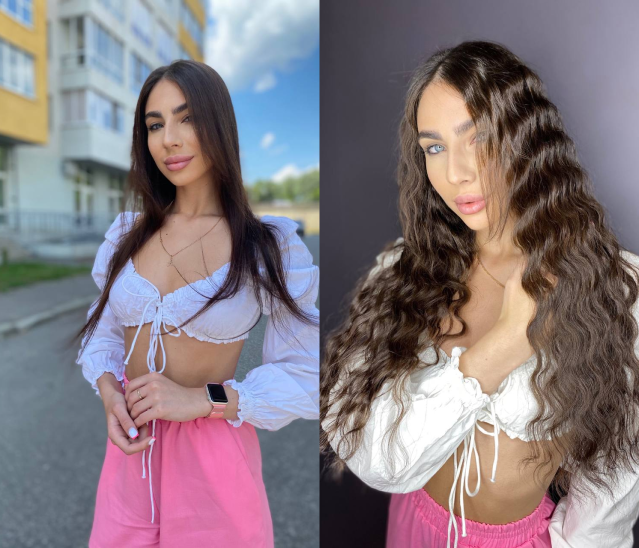
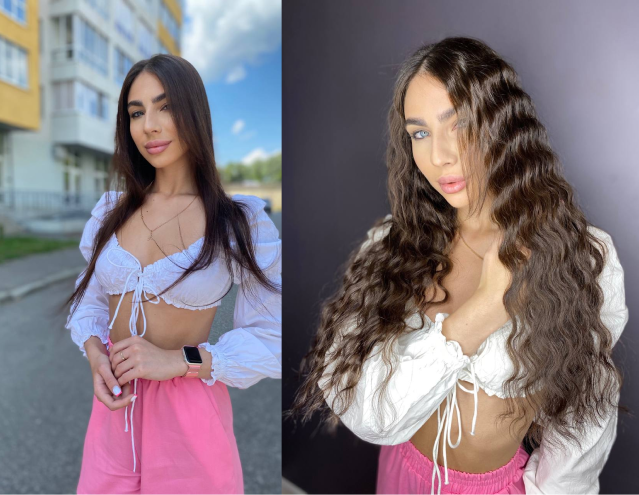
rew

diff --git a/css/style.min.css b/css/style.min.css
@@ -1,2 +1,2 @@
-*{margin:0;padding:0;-webkit-box-sizing:border-box;box-sizing:border-box}html{font-size:16px}body{font-family:'Montserrat', 'Arial', sans-serif}.container{width:90%;max-width:1160px;position:relative;margin:0 auto}.title{font-family:'Prata', serif;font-size:2rem;font-weight:400;color:#332F29}.btn{display:block;padding:17px 47px;background:#C29C74;color:#332F29;border:none;font-weight:700;font-size:1rem;text-transform:uppercase;border-radius:5px;width:-webkit-fit-content;width:-moz-fit-content;width:fit-content;position:relative;z-index:2}.btn:hover{cursor:pointer;background:#332F29;color:#C29C74;outline:1px solid #C29C74}.btn:active{-webkit-box-shadow:inset 2px 2px 5px #000;box-shadow:inset 2px 2px 5px #000}.menu{display:-webkit-box;display:-ms-flexbox;display:flex;-webkit-box-pack:justify;-ms-flex-pack:justify;justify-content:space-between;height:138px;margin-top:19px;position:relative;z-index:4}.menu__contacts{display:-webkit-box;display:-ms-flexbox;display:flex;-webkit-box-pack:justify;-ms-flex-pack:justify;justify-content:space-between;margin-top:20px}.menu__phone{margin-right:15px;color:#fff;font-weight:500;text-decoration:none;font-size:1rem}.menu__phone:hover{opacity:.8;cursor:pointer}.menu__cons{color:#fff;font-weight:500;text-decoration:none;font-size:1rem}.menu__cons:hover{opacity:.7;cursor:pointer}.logo{display:block;width:165px;margin-top:-4px}.logo img{width:100%}.promo{background:-webkit-gradient(linear, left top, right top, from(#312D27), color-stop(164.47%, #34302B));background:linear-gradient(90deg, #312D27 0%, #34302B 164.47%);height:100vh;padding-top:5px;position:relative;overflow:hidden}.promo__img{position:absolute;top:0;right:0;height:100vh;width:40%;background:url(../img/promo.jpg) no-repeat right top;background-size:cover}.promo__img_mob{display:none;position:absolute;right:0;top:0;opacity:.1;height:100vh}.promo__img_mob img{height:100%}.promo__title{font-family:'Prata';font-weight:400;font-size:2.5rem;margin-top:60px;color:#C29C74}.promo__subtitle{font-weight:400;font-size:1.4rem;color:#FFFFFF;list-style-type:none;padding-left:43px;margin-top:15px;margin-bottom:70px}.promo__subtitle li{position:relative;margin-bottom:10px}.promo__subtitle li::before{content:'';display:block;width:35px;height:2px;background:#fff;position:absolute;top:50%;left:-43px}.wins{background:-webkit-gradient(linear, left top, right top, color-stop(60%, #F3EBE3), color-stop(40%, #fff));background:linear-gradient(to right, #F3EBE3 60%, #fff 40%);position:relative;z-index:7}.wins__wrapper{padding:40px 140px;height:160px;width:90%;margin:0 auto;background:#C29C74;display:-webkit-box;display:-ms-flexbox;display:flex;-webkit-box-pack:justify;-ms-flex-pack:justify;justify-content:space-between;max-width:976px}.wins__item{font-weight:500;font-size:1.2rem;line-height:120%;text-align:center;width:25%;color:#FFFFFF}.swiper{margin-top:50px;padding-top:50px;padding-bottom:80px}.swiper-slide-next .rew__wrap{-webkit-transform:scale(1.2);transform:scale(1.2);-webkit-transition:all .3s;transition:all .3s}.swiper-pagination-bullet-active{background:#332F29}.swiper-button-next,.swiper-button-prev{color:#fff;background:#C29C74;padding:5px;border-radius:50%;width:40px;height:40px;border:none;bottom:0;margin:auto}.swiper-button-next::after,.swiper-button-prev::after{font-size:16px;font-weight:700}.swiper__nav{position:absolute;width:116px;height:58px;left:50%;bottom:7px;-webkit-transform:translateX(-38px);transform:translateX(-38px)}.rew{background:-webkit-gradient(linear, left top, right top, color-stop(60%, #F3EBE3), color-stop(40%, #fff)),-webkit-gradient(linear, right top, left top, color-stop(60%, #332F29), color-stop(40%, #fff));background:linear-gradient(to right, #F3EBE3 60%, #fff 40%),linear-gradient(to left, #332F29 60%, #fff 40%);padding-bottom:60px;padding-top:100px}.rew__wrap{margin:0 0 0 25px}.rew__photo{padding-top:15px;position:relative;width:300px;height:300px;margin:0 auto}.rew__photo img{width:100%;height:100%;-o-object-fit:cover;object-fit:cover;-o-object-position:top;object-position:top;display:block;margin:0 auto}.rew__photo video{width:100%;height:100%}.about{background:-webkit-gradient(linear, left top, right top, color-stop(60%, #F3EBE3), color-stop(40%, #fff));background:linear-gradient(to right, #F3EBE3 60%, #fff 40%);padding-top:100px;padding-bottom:100px;position:relative}.about::after{content:'';background:#332F29;width:50%;height:46%;position:absolute;right:0;bottom:0}.about__wrapper{display:-webkit-box;display:-ms-flexbox;display:flex;-webkit-box-pack:justify;-ms-flex-pack:justify;justify-content:space-between;margin-top:40px}.about__text{font-weight:400;font-size:1.1rem;line-height:160%;color:#332F29;width:40%}.about__photo{width:40%;position:relative;z-index:2}.about__photo img{width:100%}.tabs__content{display:none}.tabs__content.active{display:block}.tabs{margin-top:60px;display:-webkit-box;display:-ms-flexbox;display:flex;-webkit-box-pack:justify;-ms-flex-pack:justify;justify-content:space-between}.tabs__caption{list-style-type:none;margin-right:25px}.tabs__caption li{padding-left:10px;cursor:pointer;position:relative;margin-top:20px;display:block;height:25px;width:-webkit-fit-content;width:-moz-fit-content;width:fit-content;font-size:1.2rem}.tabs__caption li.active{border-bottom:2px solid #332F29}.tabs__caption li.active::before{content:'';width:5px;height:5px;background:#332F29;position:absolute;top:10px;left:0}.tabs__caption li:hover{border-bottom:2px solid #332F29}.teh{background:-webkit-gradient(linear, right top, left top, color-stop(50%, #332F29), color-stop(50%, #fff));background:linear-gradient(to left, #332F29 50%, #fff 50%);padding:100px 0 100px}.teh__wrapper{display:-webkit-box;display:-ms-flexbox;display:flex;-webkit-box-pack:justify;-ms-flex-pack:justify;justify-content:space-between}.teh__text{width:294px;font-weight:400;font-size:20px;line-height:160%;margin-left:30px;-ms-flex-item-align:end;-ms-grid-row-align:end;align-self:end;color:#C29C74;margin-bottom:30px}.teh__photo{width:500px}.teh__photo img{width:100%}.result{padding:100px 0}.result__wrapper{display:-ms-grid;display:grid;-ms-grid-columns:1fr 1fr 1fr;grid-template-columns:1fr 1fr 1fr;-ms-grid-rows:150px auto 150px;grid-template-rows:150px auto 150px;-webkit-column-gap:30px;column-gap:30px;justify-items:center}.result .title{-ms-grid-column:2;-ms-grid-column-span:1;grid-column:2/3;-ms-grid-row:1;-ms-grid-row-span:1;grid-row:1/2;text-align:center}.result .result1{-ms-grid-column:1;-ms-grid-column-span:1;grid-column:1/2;-ms-grid-row:1;-ms-grid-row-span:2;grid-row:1/3}.result .result2{-ms-grid-column:2;-ms-grid-column-span:1;grid-column:2/3;-ms-grid-row:2;-ms-grid-row-span:2;grid-row:2/4}.result .result3{-ms-grid-column:3;-ms-grid-column-span:1;grid-column:3/4;-ms-grid-row:1;-ms-grid-row-span:2;grid-row:1/3}.result__photo{width:100%}.result__photo img{width:100%}.result__item{width:100%;max-width:320px;-ms-flex-item-align:center;-ms-grid-row-align:center;align-self:center;background:#332F29}.result__title{font-weight:500;font-size:1.5rem;padding:10px 0 0 0;color:#C29C74;text-align:center}.result__text{padding:0 30px 30px;text-align:center;color:#C29C74;font-size:1rem;margin-top:10px}.sert{padding:100px 0}.sert__wrapper{display:-webkit-box;display:-ms-flexbox;display:flex;-webkit-box-pack:center;-ms-flex-pack:center;justify-content:center;-ms-flex-wrap:wrap;flex-wrap:wrap;width:90%;margin:40px auto 0}.sert__item{width:275px;height:333px;background:#FFFFFF;border:1px solid #000000;-webkit-box-shadow:3px 4px 4px rgba(0,0,0,0.25);box-shadow:3px 4px 4px rgba(0,0,0,0.25);margin:20px}.price{position:relative;padding:50px 0 100px}.price::before{content:'';position:absolute;width:45%;height:350px;background:#F3EBE3;z-index:-1;top:0;left:0}.price__block{width:65%;background:#332F29;margin-top:30px;margin-left:auto;padding:60px 20px;color:#F3EBE3}.price__row{display:-webkit-box;display:-ms-flexbox;display:flex;-ms-flex-pack:distribute;justify-content:space-around;-webkit-box-align:center;-ms-flex-align:center;align-items:center;border-bottom:1px solid #F3EBE3;height:35px}.price__title{font-weight:500;font-size:1.5rem}.price__subtitle{font-weight:500;font-size:1.3rem}.price__text{font-size:1rem;font-weight:300}.price__photo{position:absolute;bottom:0;left:0;z-index:-1}.complex{padding:100px 0}.complex__wrapper{display:-webkit-box;display:-ms-flexbox;display:flex;-ms-flex-pack:distribute;justify-content:space-around;margin-top:40px}.complex__item{width:30%;max-width:300px;height:400px;padding:40px 70px;border-radius:5px}.complex .complex1{background:url(../img/complex_photo1.png) no-repeat center;background-size:cover}.complex .complex2{background:url(../img/complex__photo2.png) no-repeat center;background-size:cover}.complex .complex3{background:url(../img/complex__photo3.png) no-repeat center;background-size:cover}.complex__title{font-size:1.2rem;color:#fff;font-weight:500;text-align:center}.complex__serv{margin-top:30px}.complex__serv li{color:#fff;font-weight:300;font-size:1rem;margin-bottom:20px}.complex .btn{margin:70px auto 0;padding:14px 25px;font-size:.8rem}.form{background:#F3EBE3;padding:100px 0;text-align:center}.form__text{margin-top:30px;font-weight:400;font-size:20px;line-height:24px;text-align:center;color:#332F29}.form .btn{margin:30px auto}footer{background:#332F29;padding:50px 0}.footer__wrapper{display:-webkit-box;display:-ms-flexbox;display:flex;-webkit-box-pack:justify;-ms-flex-pack:justify;justify-content:space-between}.footer__item:nth-child(2){width:50%;max-width:600px;margin-left:20px}.footer__contacts{margin-top:40px}.footer__contacts a{display:-webkit-box;display:-ms-flexbox;display:flex;-webkit-box-align:center;-ms-flex-align:center;align-items:center;color:#fff;text-decoration:none;margin-top:20px}.footer__contacts a img{width:12px;margin-right:5px}.footer__contacts a:hover{opacity:.7}.copyright{color:#fff;border-top:1px solid #fff;margin-top:20px;padding-top:20px;font-size:12px}.overlay{position:fixed;top:0;left:0;height:100%;width:100%;background:rgba(255,255,255,0.85);z-index:5;display:none}.modal{z-index:6;position:fixed;top:50%;left:50%;-webkit-transform:translate(-50%, -50%);transform:translate(-50%, -50%);background:#fff;padding:40px 40px;-webkit-box-shadow:#332F29 5px 5px 15px;box-shadow:#332F29 5px 5px 15px;display:none}.modal__title{text-align:center;font-size:18px}.modal__close{position:absolute;right:25px;top:15px;font-size:30px;cursor:pointer}.modal__form{display:-webkit-box;display:-ms-flexbox;display:flex;-webkit-box-orient:vertical;-webkit-box-direction:normal;-ms-flex-direction:column;flex-direction:column;margin:15px auto 20px;width:80%}.modal__form input{margin-bottom:15px;height:30px;border:1px solid #000;border-radius:5px;padding-left:5px}.modal__form textarea{margin-bottom:30px;border:1px solid #000;border-radius:5px;padding-left:5px;padding-top:5px}.modal__form .btn{border:none;margin:0 auto}.thanks{z-index:6;position:fixed;top:50%;left:50%;-webkit-transform:translate(-50%, -50%);transform:translate(-50%, -50%);background:#fff;padding:40px 40px;-webkit-box-shadow:#332F29 5px 5px 15px;box-shadow:#332F29 5px 5px 15px;display:none}@media (max-width: 1116px){.rew__photo{width:270px;height:270px}.teh__photo{width:400px}}@media (max-width: 1023px){.promo__img{display:none}.promo__img_mob{display:block}.wins__wrapper{padding:30px 35px;height:125px}.rew__photo{width:250px;height:250px}.about__text{font-size:.8rem}.teh__photo{width:300px}.teh__text{font-size:14px;width:180px}.result__title{font-size:1rem}.result__text{font-size:.8rem;padding:0 15px 15px}.complex__wrapper{-ms-flex-wrap:wrap;flex-wrap:wrap}.complex__item{width:auto;margin-top:20px;padding:35px 40px}}@media (max-width: 767px){.title{font-size:1.2rem}.container{width:85%}.logo{width:120px}.wins__item{font-size:.8rem}.wins__wrapper{padding:25px 19px;height:100px}.rew{padding-top:60px}.rew .swiper{margin-top:0}.about{padding-top:50px}.about__wrapper{-webkit-box-orient:vertical;-webkit-box-direction:normal;-ms-flex-direction:column;flex-direction:column;-webkit-box-align:center;-ms-flex-align:center;align-items:center}.about__photo{-webkit-box-ordinal-group:2;-ms-flex-order:1;order:1;width:300px}.about__text{-webkit-box-ordinal-group:3;-ms-flex-order:2;order:2;width:100%;margin-top:15px;text-align:center}.about::after{display:none}.teh{background:-webkit-gradient(linear, right top, left top, color-stop(40%, #332F29), color-stop(40%, #fff));background:linear-gradient(to left, #332F29 40%, #fff 40%);padding:50px 0 0}.teh__wrapper{display:block}.teh__photo{width:160px}.teh__text{margin:0;line-height:170%;background:#332F29;font-size:12px;padding:10px 15px;width:320px;height:140px;margin-left:-150px}.tabs{margin-top:30px;position:relative}.tabs__caption li{font-size:1rem;height:20px;margin-top:10px}.tabs__caption li.active:before{top:5px}.result{padding:50px 0}.result__photo{height:250px}.result__photo img{height:100%;-o-object-fit:cover;object-fit:cover}.sert{padding:50px 0}.price{padding:50px 0}.price__photo{display:none}.price__block{width:90%;margin:30px auto 0}.complex{padding:50px 0}.complex__wrapper{-webkit-box-align:center;-ms-flex-align:center;align-items:center}.complex__item{width:90%;height:300px}.complex .btn{margin-top:30px}.complex__serv li{margin-bottom:10px}.form{padding:50px 0}.form__text{font-size:16px}.footer__wrapper{-webkit-box-orient:vertical;-webkit-box-direction:normal;-ms-flex-direction:column;flex-direction:column}.footer__item:nth-child(2){width:100%;max-width:400px;margin-top:30px;margin-left:0}}@media (max-width: 499px){html{font-size:15px !important}.menu__phone,.menu__cons{font-size:.7rem}.wins__wrapper{width:100%}.result__wrapper{-ms-grid-columns:1fr;grid-template-columns:1fr;-ms-grid-rows:auto;grid-template-rows:auto;row-gap:20px}.result .title{-ms-grid-column:1;-ms-grid-column-span:1;grid-column:1/2;-ms-grid-row:1;-ms-grid-row-span:1;grid-row:1/2}.result .result1{-ms-grid-column:1;-ms-grid-column-span:1;grid-column:1/2;-ms-grid-row:2;-ms-grid-row-span:1;grid-row:2/3}.result .result2{-ms-grid-column:1;-ms-grid-column-span:1;grid-column:1/2;-ms-grid-row:3;-ms-grid-row-span:1;grid-row:3/4}.result .result3{-ms-grid-column:1;-ms-grid-column-span:1;grid-column:1/2;-ms-grid-row:4;-ms-grid-row-span:1;grid-row:4/5}.modal{width:85%;padding:35px 20px}}
+*{margin:0;padding:0;-webkit-box-sizing:border-box;box-sizing:border-box}html{font-size:16px}body{font-family:'Montserrat', 'Arial', sans-serif}.container{width:90%;max-width:1160px;position:relative;margin:0 auto}.title{font-family:'Prata', serif;font-size:2rem;font-weight:400;color:#332F29}.btn{display:block;padding:17px 47px;background:#C29C74;color:#332F29;border:none;font-weight:700;font-size:1rem;text-transform:uppercase;border-radius:5px;width:-webkit-fit-content;width:-moz-fit-content;width:fit-content;position:relative;z-index:2}.btn:hover{cursor:pointer;background:#332F29;color:#C29C74;outline:1px solid #C29C74}.btn:active{-webkit-box-shadow:inset 2px 2px 5px #000;box-shadow:inset 2px 2px 5px #000}.menu{display:-webkit-box;display:-ms-flexbox;display:flex;-webkit-box-pack:justify;-ms-flex-pack:justify;justify-content:space-between;height:138px;margin-top:19px;position:relative;z-index:4}.menu__contacts{display:-webkit-box;display:-ms-flexbox;display:flex;-webkit-box-pack:justify;-ms-flex-pack:justify;justify-content:space-between;margin-top:20px}.menu__phone{margin-right:15px;color:#fff;font-weight:500;text-decoration:none;font-size:1rem}.menu__phone:hover{opacity:.8;cursor:pointer}.menu__cons{color:#fff;font-weight:500;text-decoration:none;font-size:1rem}.menu__cons:hover{opacity:.7;cursor:pointer}.logo{display:block;width:165px;margin-top:-4px}.logo img{width:100%}.promo{background:-webkit-gradient(linear, left top, right top, from(#312D27), color-stop(164.47%, #34302B));background:linear-gradient(90deg, #312D27 0%, #34302B 164.47%);height:100vh;padding-top:5px;position:relative;overflow:hidden}.promo__img{position:absolute;top:0;right:0;height:100vh;width:40%;background:url(../img/promo.jpg) no-repeat right top;background-size:cover}.promo__img_mob{display:none;position:absolute;right:0;top:0;opacity:.1;height:100vh}.promo__img_mob img{height:100%}.promo__title{font-family:'Prata';font-weight:400;font-size:2.5rem;margin-top:60px;color:#C29C74}.promo__subtitle{font-weight:400;font-size:1.4rem;color:#FFFFFF;list-style-type:none;padding-left:43px;margin-top:15px;margin-bottom:70px}.promo__subtitle li{position:relative;margin-bottom:10px}.promo__subtitle li::before{content:'';display:block;width:35px;height:2px;background:#fff;position:absolute;top:50%;left:-43px}.wins{background:-webkit-gradient(linear, left top, right top, color-stop(60%, #F3EBE3), color-stop(40%, #fff));background:linear-gradient(to right, #F3EBE3 60%, #fff 40%);position:relative;z-index:7}.wins__wrapper{padding:40px 140px;height:160px;width:90%;margin:0 auto;background:#C29C74;display:-webkit-box;display:-ms-flexbox;display:flex;-webkit-box-pack:justify;-ms-flex-pack:justify;justify-content:space-between;max-width:976px}.wins__item{font-weight:500;font-size:1.2rem;line-height:120%;text-align:center;width:25%;color:#FFFFFF}.swiper{margin-top:50px;padding-top:50px;padding-bottom:80px}.swiper-slide-next .rew__wrap{-webkit-transform:scale(1.2);transform:scale(1.2);-webkit-transition:all .3s;transition:all .3s}.swiper-pagination-bullet-active{background:#332F29}.swiper-button-next,.swiper-button-prev{color:#fff;background:#C29C74;padding:5px;border-radius:50%;width:40px;height:40px;border:none;bottom:0;margin:auto}.swiper-button-next::after,.swiper-button-prev::after{font-size:16px;font-weight:700}.swiper__nav{position:absolute;width:116px;height:58px;left:50%;bottom:7px;-webkit-transform:translateX(-38px);transform:translateX(-38px)}.rew{background:-webkit-gradient(linear, left top, right top, color-stop(60%, #F3EBE3), color-stop(40%, #fff)),-webkit-gradient(linear, right top, left top, color-stop(60%, #332F29), color-stop(40%, #fff));background:linear-gradient(to right, #F3EBE3 60%, #fff 40%),linear-gradient(to left, #332F29 60%, #fff 40%);padding-bottom:60px;padding-top:100px}.rew__wrap{margin:0 0 0 25px}.rew__photo{padding-top:15px;position:relative;width:300px;height:300px;margin:0 auto}.rew__photo img{width:100%;height:100%;-o-object-fit:contain;object-fit:contain;-o-object-position:top;object-position:top;display:block;margin:0 auto}.rew__photo video{width:100%;height:100%}.about{background:-webkit-gradient(linear, left top, right top, color-stop(60%, #F3EBE3), color-stop(40%, #fff));background:linear-gradient(to right, #F3EBE3 60%, #fff 40%);padding-top:100px;padding-bottom:100px;position:relative}.about::after{content:'';background:#332F29;width:50%;height:46%;position:absolute;right:0;bottom:0}.about__wrapper{display:-webkit-box;display:-ms-flexbox;display:flex;-webkit-box-pack:justify;-ms-flex-pack:justify;justify-content:space-between;margin-top:40px}.about__text{font-weight:400;font-size:1.1rem;line-height:160%;color:#332F29;width:40%}.about__photo{width:40%;position:relative;z-index:2}.about__photo img{width:100%}.tabs__content{display:none}.tabs__content.active{display:block}.tabs{margin-top:60px;display:-webkit-box;display:-ms-flexbox;display:flex;-webkit-box-pack:justify;-ms-flex-pack:justify;justify-content:space-between}.tabs__caption{list-style-type:none;margin-right:25px}.tabs__caption li{padding-left:10px;cursor:pointer;position:relative;margin-top:20px;display:block;height:25px;width:-webkit-fit-content;width:-moz-fit-content;width:fit-content;font-size:1.2rem}.tabs__caption li.active{border-bottom:2px solid #332F29}.tabs__caption li.active::before{content:'';width:5px;height:5px;background:#332F29;position:absolute;top:10px;left:0}.tabs__caption li:hover{border-bottom:2px solid #332F29}.teh{background:-webkit-gradient(linear, right top, left top, color-stop(50%, #332F29), color-stop(50%, #fff));background:linear-gradient(to left, #332F29 50%, #fff 50%);padding:100px 0 100px}.teh__wrapper{display:-webkit-box;display:-ms-flexbox;display:flex;-webkit-box-pack:justify;-ms-flex-pack:justify;justify-content:space-between}.teh__text{width:294px;font-weight:400;font-size:20px;line-height:160%;margin-left:30px;-ms-flex-item-align:end;-ms-grid-row-align:end;align-self:end;color:#C29C74;margin-bottom:30px}.teh__photo{width:500px}.teh__photo img{width:100%}.result{padding:100px 0}.result__wrapper{display:-ms-grid;display:grid;-ms-grid-columns:1fr 1fr 1fr;grid-template-columns:1fr 1fr 1fr;-ms-grid-rows:150px auto 150px;grid-template-rows:150px auto 150px;-webkit-column-gap:30px;column-gap:30px;justify-items:center}.result .title{-ms-grid-column:2;-ms-grid-column-span:1;grid-column:2/3;-ms-grid-row:1;-ms-grid-row-span:1;grid-row:1/2;text-align:center}.result .result1{-ms-grid-column:1;-ms-grid-column-span:1;grid-column:1/2;-ms-grid-row:1;-ms-grid-row-span:2;grid-row:1/3}.result .result2{-ms-grid-column:2;-ms-grid-column-span:1;grid-column:2/3;-ms-grid-row:2;-ms-grid-row-span:2;grid-row:2/4}.result .result3{-ms-grid-column:3;-ms-grid-column-span:1;grid-column:3/4;-ms-grid-row:1;-ms-grid-row-span:2;grid-row:1/3}.result__photo{width:100%}.result__photo img{width:100%}.result__item{width:100%;max-width:320px;-ms-flex-item-align:center;-ms-grid-row-align:center;align-self:center;background:#332F29}.result__title{font-weight:500;font-size:1.5rem;padding:10px 0 0 0;color:#C29C74;text-align:center}.result__text{padding:0 30px 30px;text-align:center;color:#C29C74;font-size:1rem;margin-top:10px}.sert{padding:100px 0}.sert__wrapper{display:-webkit-box;display:-ms-flexbox;display:flex;-webkit-box-pack:center;-ms-flex-pack:center;justify-content:center;-ms-flex-wrap:wrap;flex-wrap:wrap;width:90%;margin:40px auto 0}.sert__item{width:275px;height:333px;background:#FFFFFF;border:1px solid #000000;-webkit-box-shadow:3px 4px 4px rgba(0,0,0,0.25);box-shadow:3px 4px 4px rgba(0,0,0,0.25);margin:20px}.price{position:relative;padding:50px 0 100px}.price::before{content:'';position:absolute;width:45%;height:350px;background:#F3EBE3;z-index:-1;top:0;left:0}.price__block{width:65%;background:#332F29;margin-top:30px;margin-left:auto;padding:60px 20px;color:#F3EBE3}.price__row{display:-webkit-box;display:-ms-flexbox;display:flex;-ms-flex-pack:distribute;justify-content:space-around;-webkit-box-align:center;-ms-flex-align:center;align-items:center;border-bottom:1px solid #F3EBE3;height:35px}.price__title{font-weight:500;font-size:1.5rem}.price__subtitle{font-weight:500;font-size:1.3rem}.price__text{font-size:1rem;font-weight:300}.price__photo{position:absolute;bottom:0;left:0;z-index:-1}.complex{padding:100px 0}.complex__wrapper{display:-webkit-box;display:-ms-flexbox;display:flex;-ms-flex-pack:distribute;justify-content:space-around;margin-top:40px}.complex__item{width:30%;max-width:300px;height:400px;padding:40px 70px;border-radius:5px}.complex .complex1{background:url(../img/complex_photo1.png) no-repeat center;background-size:cover}.complex .complex2{background:url(../img/complex__photo2.png) no-repeat center;background-size:cover}.complex .complex3{background:url(../img/complex__photo3.png) no-repeat center;background-size:cover}.complex__title{font-size:1.2rem;color:#fff;font-weight:500;text-align:center}.complex__serv{margin-top:30px}.complex__serv li{color:#fff;font-weight:300;font-size:1rem;margin-bottom:20px}.complex .btn{margin:70px auto 0;padding:14px 25px;font-size:.8rem}.form{background:#F3EBE3;padding:100px 0;text-align:center}.form__text{margin-top:30px;font-weight:400;font-size:20px;line-height:24px;text-align:center;color:#332F29}.form .btn{margin:30px auto}footer{background:#332F29;padding:50px 0}.footer__wrapper{display:-webkit-box;display:-ms-flexbox;display:flex;-webkit-box-pack:justify;-ms-flex-pack:justify;justify-content:space-between}.footer__item:nth-child(2){width:50%;max-width:600px;margin-left:20px}.footer__contacts{margin-top:40px}.footer__contacts a{display:-webkit-box;display:-ms-flexbox;display:flex;-webkit-box-align:center;-ms-flex-align:center;align-items:center;color:#fff;text-decoration:none;margin-top:20px}.footer__contacts a img{width:12px;margin-right:5px}.footer__contacts a:hover{opacity:.7}.copyright{color:#fff;border-top:1px solid #fff;margin-top:20px;padding-top:20px;font-size:12px}.overlay{position:fixed;top:0;left:0;height:100%;width:100%;background:rgba(255,255,255,0.85);z-index:5;display:none}.modal{z-index:6;position:fixed;top:50%;left:50%;-webkit-transform:translate(-50%, -50%);transform:translate(-50%, -50%);background:#fff;padding:40px 40px;-webkit-box-shadow:#332F29 5px 5px 15px;box-shadow:#332F29 5px 5px 15px;display:none}.modal__title{text-align:center;font-size:18px}.modal__close{position:absolute;right:25px;top:15px;font-size:30px;cursor:pointer}.modal__form{display:-webkit-box;display:-ms-flexbox;display:flex;-webkit-box-orient:vertical;-webkit-box-direction:normal;-ms-flex-direction:column;flex-direction:column;margin:15px auto 20px;width:80%}.modal__form input{margin-bottom:15px;height:30px;border:1px solid #000;border-radius:5px;padding-left:5px}.modal__form textarea{margin-bottom:30px;border:1px solid #000;border-radius:5px;padding-left:5px;padding-top:5px}.modal__form .btn{border:none;margin:0 auto}.thanks{z-index:6;position:fixed;top:50%;left:50%;-webkit-transform:translate(-50%, -50%);transform:translate(-50%, -50%);background:#fff;padding:40px 40px;-webkit-box-shadow:#332F29 5px 5px 15px;box-shadow:#332F29 5px 5px 15px;display:none}@media (max-width: 1116px){.rew__photo{width:270px;height:270px}.teh__photo{width:400px}}@media (max-width: 1023px){.promo__img{display:none}.promo__img_mob{display:block}.wins__wrapper{padding:30px 35px;height:125px}.rew__photo{width:250px;height:250px}.about__text{font-size:.8rem}.teh__photo{width:300px}.teh__text{font-size:14px;width:180px}.result__title{font-size:1rem}.result__text{font-size:.8rem;padding:0 15px 15px}.complex__wrapper{-ms-flex-wrap:wrap;flex-wrap:wrap}.complex__item{width:auto;margin-top:20px;padding:35px 40px}}@media (max-width: 767px){.title{font-size:1.2rem}.container{width:85%}.logo{width:120px}.wins__item{font-size:.8rem}.wins__wrapper{padding:25px 19px;height:100px}.rew{padding-top:60px}.rew .swiper{margin-top:0}.about{padding-top:50px}.about__wrapper{-webkit-box-orient:vertical;-webkit-box-direction:normal;-ms-flex-direction:column;flex-direction:column;-webkit-box-align:center;-ms-flex-align:center;align-items:center}.about__photo{-webkit-box-ordinal-group:2;-ms-flex-order:1;order:1;width:300px}.about__text{-webkit-box-ordinal-group:3;-ms-flex-order:2;order:2;width:100%;margin-top:15px;text-align:center}.about::after{display:none}.teh{background:-webkit-gradient(linear, right top, left top, color-stop(40%, #332F29), color-stop(40%, #fff));background:linear-gradient(to left, #332F29 40%, #fff 40%);padding:50px 0 0}.teh__wrapper{display:block}.teh__photo{width:160px}.teh__text{margin:0;line-height:170%;background:#332F29;font-size:12px;padding:10px 15px;width:320px;height:140px;margin-left:-150px}.tabs{margin-top:30px;position:relative}.tabs__caption li{font-size:1rem;height:20px;margin-top:10px}.tabs__caption li.active:before{top:5px}.result{padding:50px 0}.result__photo{height:250px}.result__photo img{height:100%;-o-object-fit:cover;object-fit:cover}.sert{padding:50px 0}.price{padding:50px 0}.price__photo{display:none}.price__block{width:90%;margin:30px auto 0}.complex{padding:50px 0}.complex__wrapper{-webkit-box-align:center;-ms-flex-align:center;align-items:center}.complex__item{width:90%;height:300px}.complex .btn{margin-top:30px}.complex__serv li{margin-bottom:10px}.form{padding:50px 0}.form__text{font-size:16px}.footer__wrapper{-webkit-box-orient:vertical;-webkit-box-direction:normal;-ms-flex-direction:column;flex-direction:column}.footer__item:nth-child(2){width:100%;max-width:400px;margin-top:30px;margin-left:0}}@media (max-width: 499px){html{font-size:15px !important}.menu__phone,.menu__cons{font-size:.7rem}.wins__wrapper{width:100%}.result__wrapper{-ms-grid-columns:1fr;grid-template-columns:1fr;-ms-grid-rows:auto;grid-template-rows:auto;row-gap:20px}.result .title{-ms-grid-column:1;-ms-grid-column-span:1;grid-column:1/2;-ms-grid-row:1;-ms-grid-row-span:1;grid-row:1/2}.result .result1{-ms-grid-column:1;-ms-grid-column-span:1;grid-column:1/2;-ms-grid-row:2;-ms-grid-row-span:1;grid-row:2/3}.result .result2{-ms-grid-column:1;-ms-grid-column-span:1;grid-column:1/2;-ms-grid-row:3;-ms-grid-row-span:1;grid-row:3/4}.result .result3{-ms-grid-column:1;-ms-grid-column-span:1;grid-column:1/2;-ms-grid-row:4;-ms-grid-row-span:1;grid-row:4/5}.modal{width:85%;padding:35px 20px}}
 /*# sourceMappingURL=style.min.css.map */

diff --git a/index.html b/index.html
@@ -111,7 +111,7 @@
                 <div class="swiper-slide">
                     <div class="rew__wrap">
                         <div class="rew__photo">
-                            <video src="img/IMG_5797.MOV" autoplay loop muted></video>
+                            <video src="img/IMG_5797.MOV" autoplay loop muted playsinline ></video>
                         </div>
                     </div>
                 </div>
@@ -125,7 +125,7 @@
                 <div class="swiper-slide">
                     <div class="rew__wrap">
                         <div class="rew__photo">
-                            <video src="img/IMG_9164.MP4" autoplay loop muted></video>
+                            <video src="img/IMG_9164.MP4" autoplay loop muted playsinline></video>
                         </div>
                     </div>
                 </div>
@@ -139,7 +139,7 @@
                 <div class="swiper-slide">
                     <div class="rew__wrap">
                         <div class="rew__photo">
-                            <video src="img/IMG_5725.MOV" autoplay loop muted></video>
+                            <video src="img/IMG_5725.MOV" autoplay loop muted playsinline></video>
                         </div>
                     </div>
                 </div>

diff --git a/scss/_rew.scss b/scss/_rew.scss
@@ -58,7 +58,7 @@
         img {
             width: 100%;
             height: 100%;
-            object-fit: cover;
+            object-fit: contain;
             object-position: top;
             display: block;
             margin: 0 auto;
